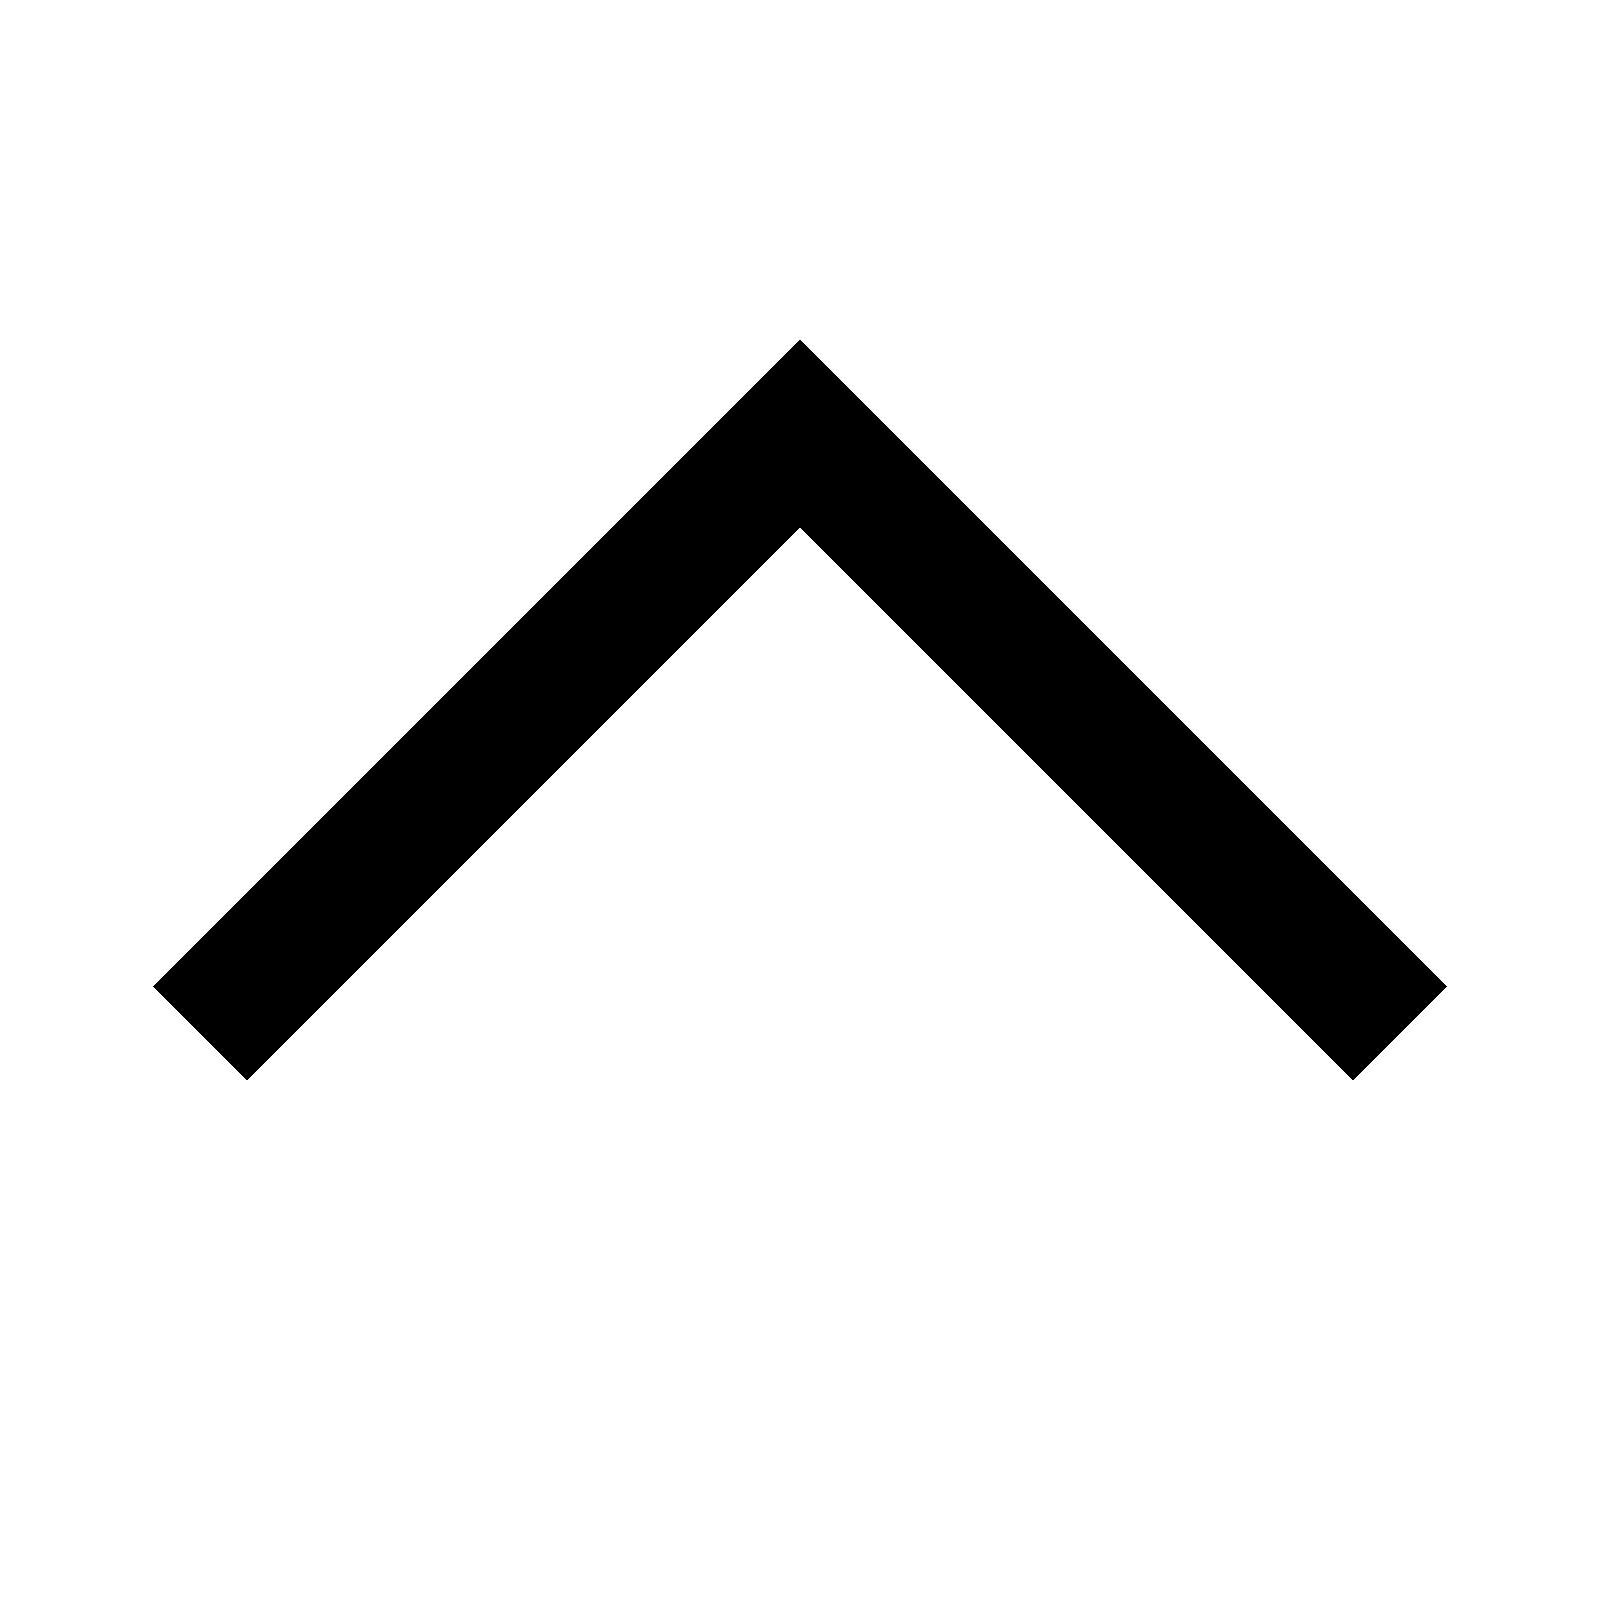
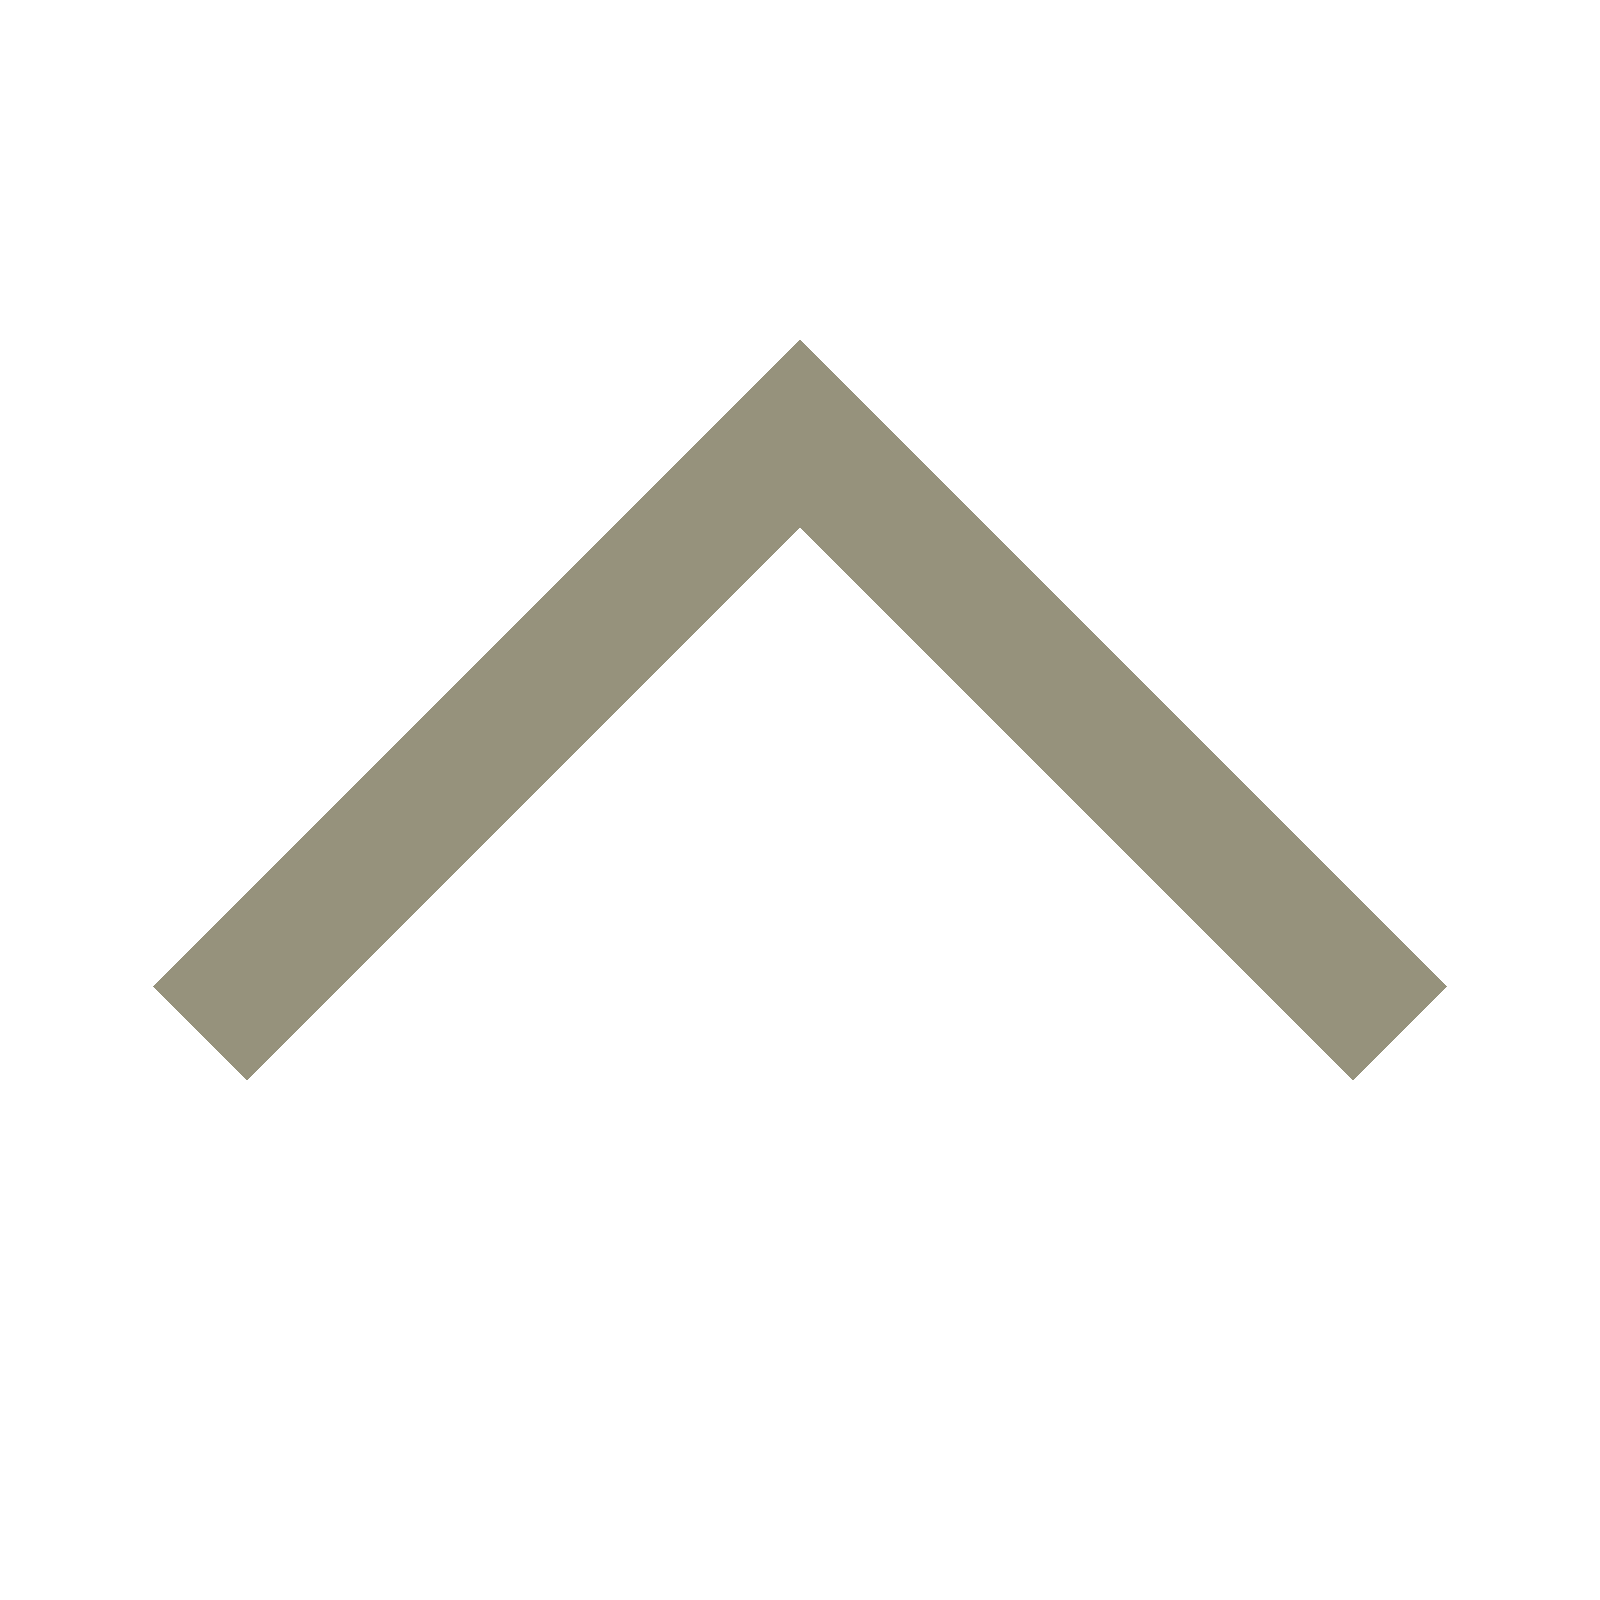
feat: added colors

Changed region(s): [[0.0938, 0.2188, 0.9062, 0.6875]]

diff --git a/front/src/AddIngredientPage.js b/front/src/AddIngredientPage.js
@@ -2,6 +2,9 @@ import React, {Component} from 'react';
 import DatePicker from 'react-datepicker';
 import moment from 'moment';
 import 'react-datepicker/dist/react-datepicker.css';
+import TagsInput from 'react-tagsinput';
+import 'react-tagsinput/react-tagsinput.css';
+
 
 export default class AddIngredientPage extends Component {
 
@@ -9,22 +12,23 @@ export default class AddIngredientPage extends Component {
         super(props);
         this.state = {
             date : moment(),
-            name : ""
+            name : "",
+            tags : []
         }
     }
 
     render() {
         return <div>
-            <img src="./back-arrow.svg" style={{ width : '30px'}} onClick={this.props.nav}/>
+            <img src="./back-arrow.png" style={{ width : '30px'}} onClick={this.props.nav} alt="Back"/>
             <div style={{ display : 'flex', flexDirection : 'column', alignItems : 'center'}} className="addIngFlex" >
                 <input placeholder="Ingredient Name" value={this.state.name} onChange={this.updateName}/>
                 <DatePicker placeholderText="Click to select a date"
                             selected={this.state.date}
                             onChange={this.handleChange}
-                            dateFormat="DD/MM/YYYY"/>
-                <p style={{
-                    borderStyle:'solid', padding : '5px'
-                }}> Add </p>
+                            dateFormat="DD/MM/YYYY"
+                            disabledKeyboardNavigation={true}/>
+                <TagsInput value={this.state.tags} onChange={this.handleChangeTags} />
+                <p style={{ padding : '5px 10px 5px 10px'}} className="button"> Add </p>
 
             </div>
 
@@ -33,6 +37,10 @@ export default class AddIngredientPage extends Component {
 
     handleChange = (date) => {
         this.setState({date});
+    }
+
+    handleChangeTags = (tags) => {
+        this.setState({tags});
     }
 
     updateName = (e) => {

diff --git a/front/src/IngredientPage.js b/front/src/IngredientPage.js
@@ -37,7 +37,7 @@ class IngredientPage extends Component {
             ingredients : [
                 {name: "Olives", tags:['Pizza', 'Snack'], date : moment([2012, 4, 7])},
                 {name: "Apple", tags:['Fruit', 'Dessert'],  date : moment([2012, 0, 31]) },
-                {name: "Banana", tags:['Fruit', 'Dessert'],  date : moment([2017, 0, 31]) },
+                {name: "Banana", tags:['Fruit', 'Dessert'],  date : moment([2017, 11, 31]) },
                 {name: "Pizza Crust", tags:['Pizza', 'Main'],  date : moment([2012, 0, 11])}
             ],
             filter : "",
@@ -50,13 +50,17 @@ class IngredientPage extends Component {
                 <div style={{
                     'margin': 'auto',
                     'width': '70%',
-                    'textAlign':'center'
+                    'textAlign':'center',
+                    'marginTop': '30px'
                 }} className="vertical-align">
                     <FilterBar updateFilter={ this.updateFilter } />
                     <AddButton nav={this.props.nav} />
                 </div>
-                <SortBar toggleSort={ this.toggleSort } sortBy={ this.state.sortBy }/>
-                { this.displayIngredients(this.state.filter) }
+                <div className="ingredient-list">
+                    <SortBar toggleSort={ this.toggleSort } sortBy={ this.state.sortBy }/>
+                    { this.displayIngredients(this.state.filter) }
+                </div>
+
             </div>);
     }
 
@@ -90,7 +94,7 @@ class IngredientPage extends Component {
             return result.map((ingredient)=><IngredientItem ingredient={ingredient} key={ingredient.name}/>);
         }
 
-        return <p> No ingredients found, sorry. </p>
+        return <p style={{padding : "20px"}}> No ingredients found, sorry. </p>
 
     }
 

diff --git a/front/src/index.css b/front/src/index.css
@@ -1,5 +1,87 @@
 body {
-  margin: 0;
-  padding: 0;
-  font-family: sans-serif;
+    margin: 0;
+    padding: 0;
+    font-family: sans-serif;
+}
+.react-tagsinput-tag {
+  background-color: #c8d694;
+  color: white;
+  border : none;
+}
+
+.react-tagsinput{
+    border-radius: 5px;
+}
+
+.orange-button {
+  border-style: solid;
+  border-width: 1px;
+  color: darkorange;
+}
+
+.App {
+    font-size: 16px;
+    color: #ffb955;
+}
+
+.app-bar{
+    background-color: #ffe4be;
+    margin : 0;
+    padding: 20px;
+    margin-bottom: 9px;
+    color: white;
+    background-color: #ffb955;
+    font-family: 'Rubik Mono One', sans-serif;
+}
+
+.menu-item {
+    color: #96927c;
+    border-color: #ffe4be;
+    background-color: white;
+    border-radius: 10px;
+    border-width: 2px;
+}
+
+.button{
+    color: white;
+    background-color: #ffb955;
+    border-radius: 5px;
+}
+
+.ingredient-name{
+    font-weight: 600;
+}
+
+.tags {
+    font-style: italic;
+    font-size: 15px;
+    color: #c8d694;
+}
+
+input {
+    font-size: inherit;
+    font-family: inherit;
+    border-style: none;
+    height: 20px;
+    padding: 5px 10px 5px 10px;
+    border-color: #ffe4be;
+    background-color: white;
+    border-radius: 5px;
+    border-width: 2px;
+    border-style: solid;
+}
+
+
+
+@media (min-width: 700px) {
+    .ingredient-list{
+        width: 70%;
+        margin: auto;
+    }
+}
+
+@media (min-width: 1000px) {
+    .ingredient-list{
+        width: 60%;
+    }
 }

diff --git a/front/src/IngredientItem.js b/front/src/IngredientItem.js
@@ -1,7 +1,7 @@
 import React from 'react';
 
 export default (props) => {
-    return <div style={{ borderStyle :'solid',
+    return <div className="menu-item" style={{ borderStyle :'solid',
     margin :'10px 13px 10px 13px', padding : '10px', paddingLeft:'5%', display:'flex',
         justifyContent : 'space-between' }}>
         <div style={{
@@ -12,16 +12,16 @@ export default (props) => {
         }}>
             <span style={{
                 width : '100px'
-            }}> { props.ingredient.name } </span>
+            }} className="ingredient-name"> { props.ingredient.name } </span>
             <span style={{
-                width : '73px'
+                width : '80px'
             }} > { props.ingredient.date.format('D/M/YYYY') } </span>
             <span style={{
                 width : '150px'
-            }}> { props.ingredient.tags.toString() } </span>
+            }} className="tags"> { props.ingredient.tags.toString() } </span>
         </div>
         <img style={{ cursor: 'pointer',
             width : '25px', height : '25px', alignSelf : 'center'}}
-             src="./minus-button.svg" alt="Delete"/>
+             src="./minus-button.png" alt="Delete"/>
     </div>
 }

diff --git a/front/src/SortBar.js b/front/src/SortBar.js
@@ -1,4 +1,4 @@
-import React, { Component } from 'react';
+import React from 'react';
 
 
 const ArrowSelector  = (props) =>{
@@ -11,12 +11,14 @@ const ArrowSelector  = (props) =>{
                      style={arrowUpStyle}
                      className="up" onClick={ props.toggleSort }
                      property={ props.property }
+                     alt="up"
                     />
 
                 <img src={props.sortBy === `${props.property}down` ? "./arrow-expand-active.png": "./arrow-expand.png"}
                      style={arrowDownStyle}
                      className="down" onClick={ props.toggleSort }
                      property={ props.property }
+                     alt="down"
                      />
 
             </div>;
@@ -39,7 +41,7 @@ export default (props) => {
                 </div>
 
                 <div style={{
-                    width : '73px', display : 'flex', alignItems : 'center'
+                    width : '80px', display : 'flex', alignItems : 'center'
                 }}> <span>Date</span> <ArrowSelector property="date" toggleSort={props.toggleSort} sortBy={props.sortBy}/>
                 </div>
 

diff --git a/front/src/App.js b/front/src/App.js
@@ -16,7 +16,7 @@ class App extends Component {
     render() {
     return (
       <div className="App">
-        <p style={ {fontSize : '24px', textAlign: 'center'} }>
+        <p style={ {fontSize : '25px', textAlign: 'center'}} className="app-bar">
           ON-BOARD FRIDGE
         </p>
           { this.state.currentPage === ingredientPage ? < IngredientPage nav={this.navigateToAddIngredient}/> : < AddIngredientPage nav={this.navigateToIngredientPage}/> }

diff --git a/front/public/index.html b/front/public/index.html
@@ -4,6 +4,7 @@
     <meta charset="utf-8">
     <meta name="viewport" content="width=device-width, initial-scale=1">
     <link rel="shortcut icon" href="%PUBLIC_URL%/favicon.ico">
+    <link href="https://fonts.googleapis.com/css?family=Rubik+Mono+One" rel="stylesheet">
     <!--
       Notice the use of %PUBLIC_URL% in the tag above.
       It will be replaced with the URL of the `public` folder during the build.

diff --git a/front/src/FilterBar.js b/front/src/FilterBar.js
@@ -12,7 +12,7 @@ class FilterBar extends Component {
     render(){
         return <input type="text" value={this.state.value} onChange={ this.updateValue }
         placeholder="Filter by..." style={{'display':'inline-block',
-        'width': '70%'}}/>;
+        'width': '69%'}}/>;
     }
 
     updateValue = (e) =>  {

diff --git a/front/src/AddButton.js b/front/src/AddButton.js
@@ -6,6 +6,6 @@ export default (props) => {
             'width' : '25px',
             'display':'inline-block',
             'paddingLeft' : '20px'}}
-                src="./plus-button.svg" alt="Add" onClick={props.nav}/>
+                src="./plus-button.png" alt="Add" onClick={props.nav}/>
     );
 }

diff --git a/front/src/App.css b/front/src/App.css
@@ -1,13 +1,3 @@
-.App {
-    font-size: 16px;
-}
-input {
-    font-size: inherit;
-    font-family: inherit;
-    border-style: none;
-    height: 20px;
-}
-
 div {
     padding: 0px;
 }
@@ -20,3 +10,4 @@ div {
 .addIngFlex > * {
     margin: 10px;
 }
+
